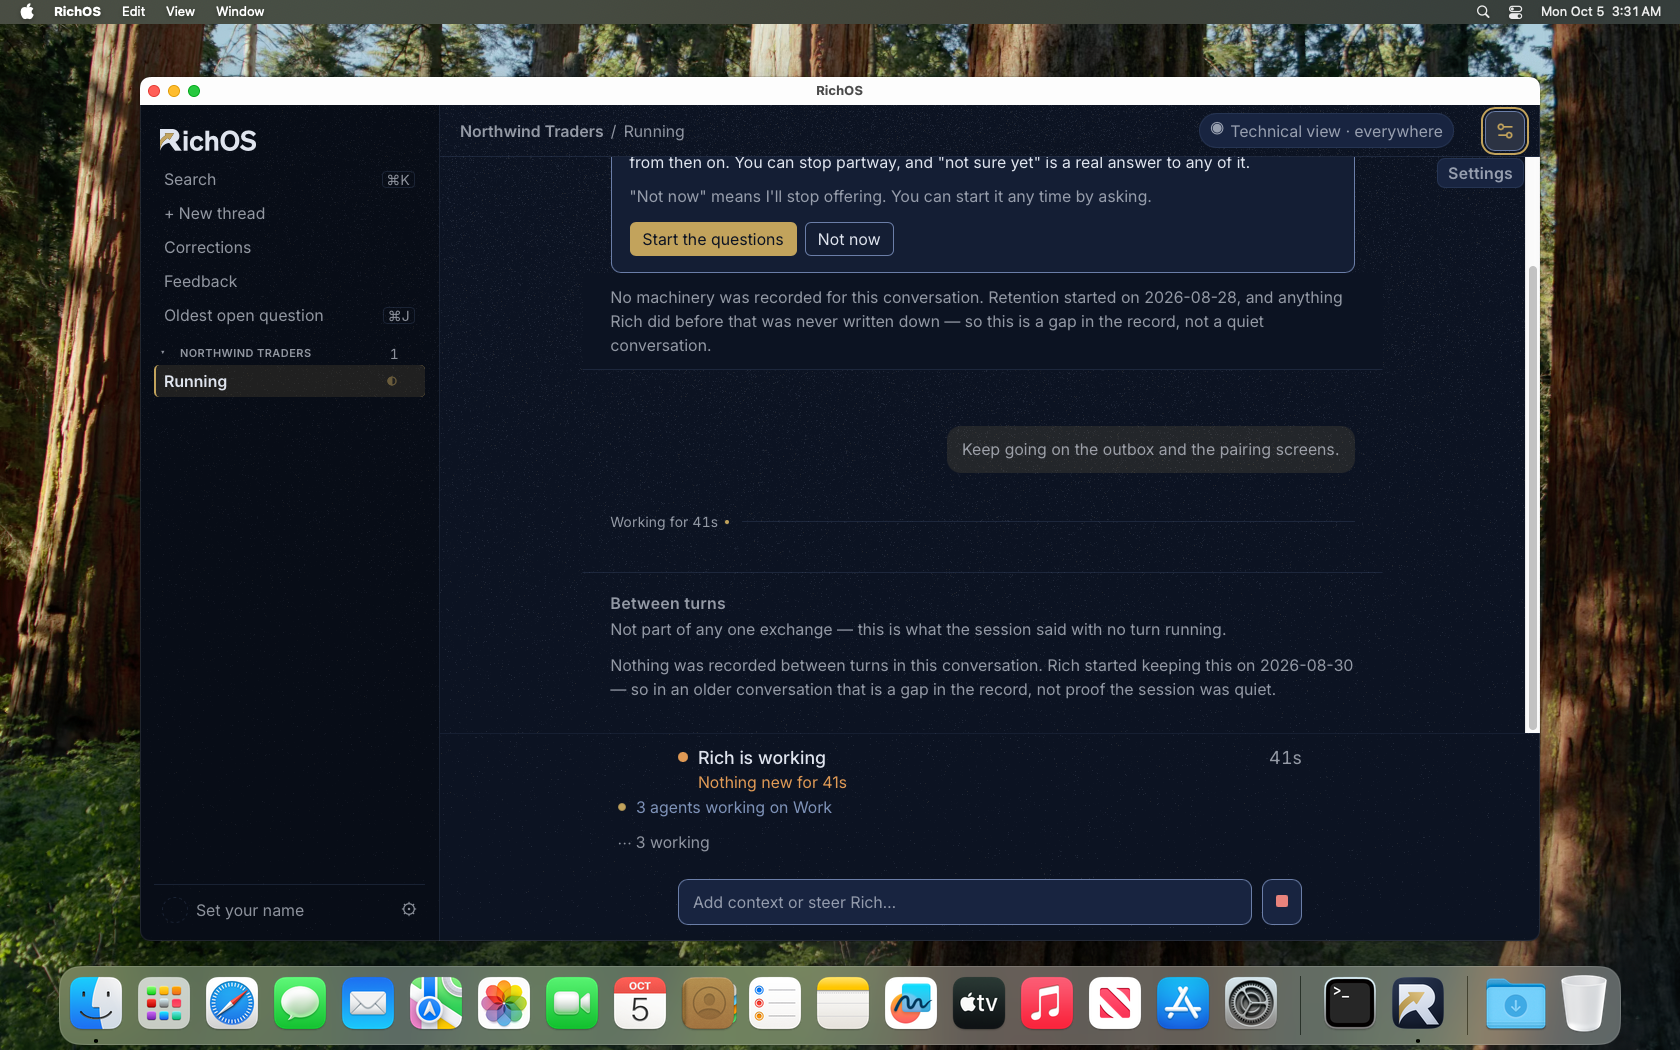
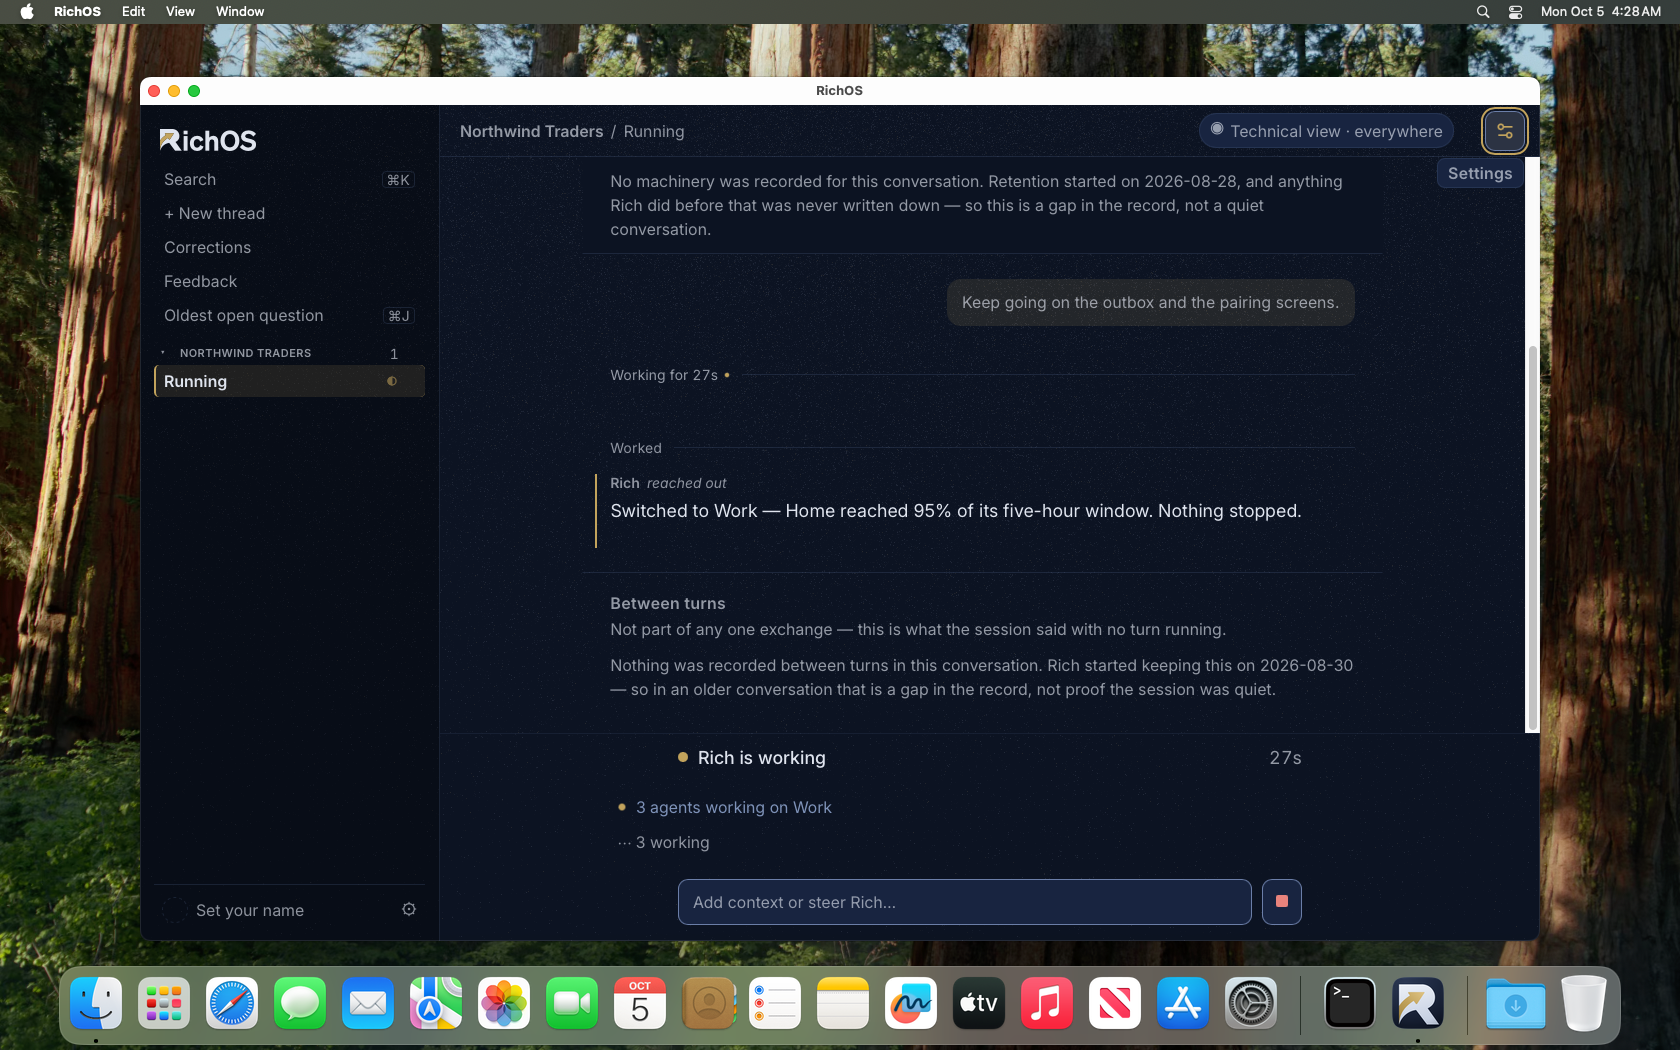
docs/verification: round-16 shot 4 from walk 5, the switch line during the turn
Walk 5 (walk-e7974c7e22a6, 2026-10-05 04:13:25-04:37:43Z, execution
completed, scenario_exit 0, cleanup_complete true), the debug app built at
76ea3f500 with the notice fix 32852260c. Shot 4, dark and light: Rich's
"Switched to Work - Home reached 95% of its five-hour window. Nothing
stopped." is on screen while the turn on Work runs, with "3 agents working
on Work" below it, as round 16 (switched-line) draws it. Walk 5's shots 6
and 7 show the same content as walk 4's, which stay.

HANDOFF.md: shot 4 now Matches; the "Open in shot 4" section is replaced
by what closed it; this branch's commits and proof are added.

diff --git a/docs/verification/2026-10-04-round16-panel-vm/HANDOFF.md b/docs/verification/2026-10-04-round16-panel-vm/HANDOFF.md
@@ -1,18 +1,22 @@
 # Round-16 quota panel: the real app beside round 16, seven states, dark and light
 
-Branch `cc/echo-opus-panel16e`, workspace `/Users/alex/ab/richos-wt/echo-opus-panel16e`
-(echo-opus-panel16e, 2026-10-05; continues echo-opus-panel16d, echo-opus-panel16c and
-echo-opus-panel16b).
+Branch `cc/echo-opus-notice2`, workspace `/Users/alex/ab/richos-wt/echo-opus-notice2`
+(echo-opus-notice2, 2026-10-05; continues echo-opus-panel16e, echo-opus-panel16d,
+echo-opus-panel16c and echo-opus-panel16b).
 Design: richos-hq `design/mockups/rounds/round-16/` (frozen, read only). Each `N-<state>-dark.png` /
 `-light.png` here is the real app in the test VM; each `N-<state>-round16-*.png` beside it is
 round 16's render of that state.
 
 **Where the shots come from.** Shots 1, 2, 3 and 5: walk 3 (`walk-5c66807272b3`, 2026-10-05
 02:30-02:53Z, `execution: completed`, `scenario_exit: 0`, `cleanup_complete: true`), the
-debug app built at `665d0765a` with the walk fixture of `61e8305e2`. Shots 4, 6 and 7: walk 4
+debug app built at `665d0765a` with the walk fixture of `61e8305e2`. Shots 6 and 7: walk 4
 (`walk-e583bad4276f`, 2026-10-05 03:17:41-03:43:41Z, `execution: completed`,
 `scenario_exit: 0`, `cleanup_complete: true`), the debug app built at `9cbdac8ea` (the
-working-row fix, on top of main's `f2d3ab1c4` merged at `cb07e092e`).
+working-row fix, on top of main's `f2d3ab1c4` merged at `cb07e092e`). Shot 4: walk 5
+(`walk-e7974c7e22a6`, 2026-10-05 04:13:25-04:37:43Z, `execution: completed`,
+`scenario_exit: 0`, `cleanup_complete: true`), the debug app built at `76ea3f500` (the
+notice fix `32852260c` on top of walk 4's build). Walk 5 also shot states 6 and 7; they show
+the same content as walk 4's, so walk 4's stay.
 
 **How walk 4's app was built and walked** (walk 3's recipe, taken from echo-opus-panel16d's
 own commands; run from `richos/app`):
@@ -33,10 +37,10 @@ which a debug walk build does not need. The `.app` is checked on its own: `build
 `ui/` into `ui-dist/` in the build's minute, and `cmp` finds `ui-dist/style.css` and
 `ui-dist/main.js` identical to `9cbdac8ea`'s.
 
-**Main's `f2d3ab1c4` is in walk 4** ("Switched to" is said only once a turn runs on the new
-account). It changes shot 4: the switch line is no longer above the user's message, and it is
-not on screen during the turn the walk holds open. It is drawn after that turn, in its own
-"Worked" block, at the top of shot 6 (dark and light). See "Open in shot 4" below.
+**Main's `f2d3ab1c4` is in walks 4 and 5** ("Switched to" is said only once a turn runs on the
+new account). In walk 4 the line was drawn only after that turn ended; `32852260c` draws it
+during the turn (see "Shot 4, closed" below), so in walk 5's shot 4 it sits below the running
+turn and above "• 3 agents working on Work", as round 16 draws it.
 
 ## The seven states
 
@@ -45,7 +49,7 @@ not on screen during the turn the walk holds open. It is drawn after that turn, 
 | 1 one account | `low` | **Matches.** + Add account beside Refresh (the circular arrow), "Checked … · checks every 5 min", round 16's times, the ruler key with its bold sentence. |
 | 2 two accounts | `two` | **Matches.** Home in use 41% / 28%, Work next at **10% / 20%**, the one sentence with Pause, no scrollbar. Home has no Remove (item 1, kept). |
 | 3 switched sheet | `switched` | **Matches.** Work **in use**, Home past its line at 95% with **no tag** and "week resets Fri", "switch to the next account — none has room now", the card "In use: Work, since …". |
-| 4 switched line | `switched-line` | **Partly.** The working row now matches: "**• 3 agents working on Work**", round 16's gold dot, in the message column (its dot on the "··· 3 working" chip's edge), over a turn on Work. **Open:** Rich's line "Switched to Work — Home reached 95% … Nothing stopped." is not in this shot. Since `f2d3ab1c4` it is written during this turn and drawn only after it ends (top of shot 6); round 16 draws it above the row. Walk 3's shot 4 (`bb4c50f02`) showed the line, with the row at the pane's edge. |
+| 4 switched line | `switched-line` | **Matches.** Rich's line "Switched to Work — Home reached 95% of its five-hour window. Nothing stopped." is on screen while the turn on Work runs ("Working for 27s" dark, "51s" light), then "**• 3 agents working on Work**" below it with round 16's gold dot, in the message column (walk 5, `32852260c`). The user's message and the running turn sit above the line because the row exists only during a turn (below). |
 | 5 fast sheet | `fast-switch` | **Matches, with one declared difference.** The card says round 16's sentence: "3 agents reading at once took Work's five-hour window from 19% to 28% in 1 minute. The lines moved to 91% and 97% …". The moved lines carry their ghosts ("switch at 91% · was 93%", "switches at 97% · was 99%"), and + Add account and Refresh keep their row. Declared: "every minute" where round 16 says "every 2 min" (the app's measured interval, quota.rs `note_speed`). The sheet scrolls about 24 px because the VM's window is 1400 × 864 pt (the app's log: "derived 1400x864"), while round 16 draws at 1440 × 900. |
 | 6 fast alert | `fast-alert` | **Matches.** Rich's alert "Usage is climbing fast: **3 agents reading at once** took Work's five-hour window from 10% to 13% in 2 minutes …", then a turn with the chip and "• 3 agents working on Work" in the message column. Above it, the switch line from state 4. |
 | 7 back to normal | `normal-again` | **Matches.** Rich's line "Usage is back to normal. I'm checking every 5 minutes again, and the lines are back at 93% and 99%.", then a turn with the chip and "• 3 agents working on Work" in the message column. |
@@ -61,16 +65,18 @@ it at full opacity (7.68:1 dark, 3.15:1 light) and breathes its size, as `.tl-pu
 does. Only the working row has the dot (`data-state`, `main.js`); a paused row has none
 (round 16's hold ring belongs to a holding state, not one of these seven).
 
-**Open in shot 4: Rich's switch line is not on screen during the turn.** Main's `f2d3ab1c4`
-moved the switch notice to `spine.rs` `prepare_request`: `ran_on(account)` then
-`raise_quota_notices`, once the turn's lease is in the chair. So the line is written while
-the turn that released it runs, and the conversation draws it only after that turn ends: in
-walk 4 it is absent from shot 4 (the turn held open, "Working for 41s" and "1m 15s") and
-present in its own "Worked" block at the top of shot 6. Round 16 draws the line and the row
-together. Not changed and not walked again, per the brief. Two ways to close it, neither
-taken here: the walk lets state 4's turn end and shoots the line after it (the row is then
-gone, since it exists only during a turn); or the conversation draws a notice raised during a
-turn at once. Which of these is right is the lead's call.
+**Shot 4, closed: a line Rich raises during a turn is drawn at once (`32852260c`).** Main's
+`f2d3ab1c4` moved the switch notice to `spine.rs` `prepare_request`: `ran_on(account)` then
+`raise_quota_notices`, once the turn's lease is in the chair. `raise_proactive` then held the
+window's event for any line raised mid-turn until the turn's boundary, so in walk 4 the line
+was absent from shot 4 and appeared after the turn, at the top of shot 6. It now sends
+`rich://proactive-message` and the §13 events at once; the line is already durable and in the
+published read view, so the window's reload draws it beside the running turn. The fast-usage
+alert and the other quota notes share this path. `f2d3ab1c4`'s rule is kept: the notice is
+still raised only once a turn runs on the new account. The thread summary sent with it says
+"working" while a turn of that thread runs. `405434563`: such a line no longer makes the
+screen reader say "Rich finished." beside a running turn; its own text is announced. No new
+color: the line is the existing "reached out" treatment, already in shots 6 and 7.
 
 **Why the row comes with a user turn in shots 4, 6 and 7.** The row and the chip exist only
 while a turn of this conversation runs (`main.rs` `get_worker_status` reads the conversation's
@@ -98,6 +104,13 @@ come from the app's conversation in technical view, not from the panel.
 | 10 | Ruler key text | **Done**, round 16's words with the bold second sentence. Shots 1, 2, 3 and 5. |
 | 11 | Five-hour bar past the "now" tick | **Done**: the bar runs past the tick in shots 1 and 2 (round 16's clock), stamps 8 px above "now". |
 
+## Commits on this branch (echo-opus-notice2)
+
+- `32852260c` spine: a proactive line raised during a turn is sent to the window at once; `rotation_tests` `the_switch_notice_is_drawn_while_the_turn_on_the_new_account_runs`.
+- `405434563` ui: a line Rich raised himself is not announced as "Rich finished".
+- `76ea3f500` state registry: the fast card's round-16 sentence classified ("1 agent took .", "agents reading at once took ." information; "from % to % in" a fragment), which `affordances.js` refused at the panel's merge.
+- This hand-off's commit: walk 5's shot 4, dark and light.
+
 ## Commits on this branch (echo-opus-panel16e)
 
 - `9cbdac8ea` the working row sits in the message column with round 16's dot; `tests/quota.js` measures its text edge against `#messages`' and its dot.
@@ -124,5 +137,8 @@ report whether company interview tools loaded."). That was a fixture gap, not an
 - `cargo test -p richos-core --lib -- quota claude_accounts`: 73 passed. `--test rotation_tests`: 31 passed (at `665d0765a`, the walked build).
 - After merging main `065021f15`: `--lib -- switch work_host quota claude_accounts`: 155 passed; `--test rotation_tests`: 32 passed. Three switch tests needed the automatic switch on, and two of them round 16's words. One of the three, main's earlier `a_long_background_run_…`, had failed on this branch unseen since an earlier merge, because the old proof filter never selected `work_host`.
 - `scripts/testvm/test/fake-claude-fill-first.test.py`: 9 ok.
-- Walks: walk 1 (echo-opus-panel16c's, `walk-c9dcf2ba1a38`), walk 2 (`walk-2b34a9ca8b95`), walk 3 (`walk-5c66807272b3`) and walk 4 (echo-opus-panel16e's, `walk-e583bad4276f`); each report says `cleanup_complete: true`.
+- Walks: walk 1 (echo-opus-panel16c's, `walk-c9dcf2ba1a38`), walk 2 (`walk-2b34a9ca8b95`), walk 3 (`walk-5c66807272b3`), walk 4 (echo-opus-panel16e's, `walk-e583bad4276f`) and walk 5 (echo-opus-notice2's, `walk-e7974c7e22a6`); each report says `cleanup_complete: true`.
+- At `32852260c`: `the_switch_notice_is_drawn_while_the_turn_on_the_new_account_runs` is RED with `spine.rs` at `40de1962f` ("the switch line was held until his turn ended"; events TurnStarted, Chunk, TurnCompleted, ProactiveMessage) and GREEN with the fix. `reserve.py -- cargo test -p richos-core --test rotation_tests --test live_event_tests --test action_ledger_tests`: 33, 20 and 15 passed. `node ui/tests/quota.js`: 26 PASS, 0 FAIL.
+- At `76ea3f500`: `node affordances.js` exit 0.
+- Walk 5's app: `cargo tauri build --debug --bundles app` at `76ea3f500` (exit 1 at the updater signature only, as above); `cmp` finds `ui-dist/main.js` and `ui-dist/style.css` identical to the branch's.
 - At `9cbdac8ea`: `node ui/tests/quota.js`: 26 PASS, 0 FAIL. Its first run failed only the new check, which caught the row's text 4 px right of the message text at the test's 820-1179 px viewport (28 px sides against `#messages`' 24 px there). Fixed, then the one re-run.
